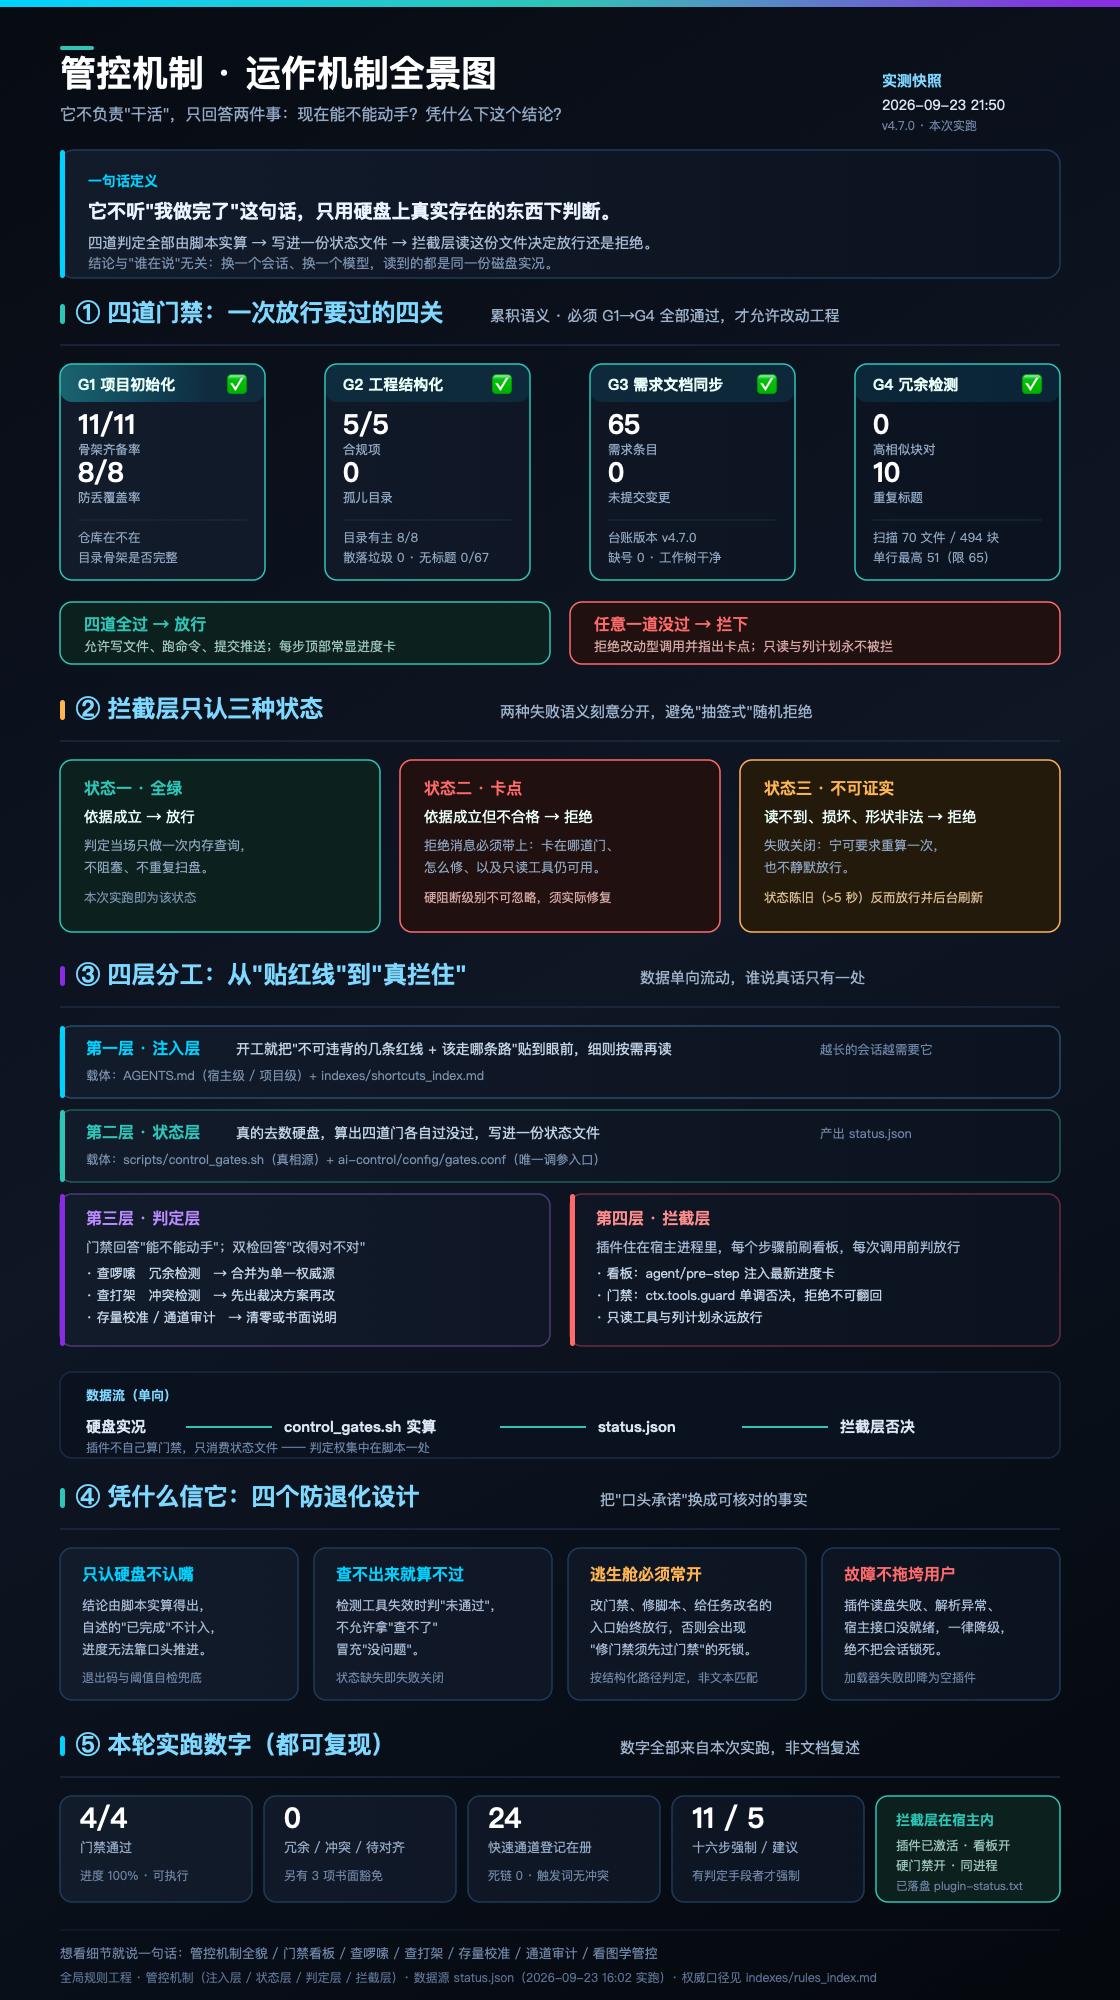
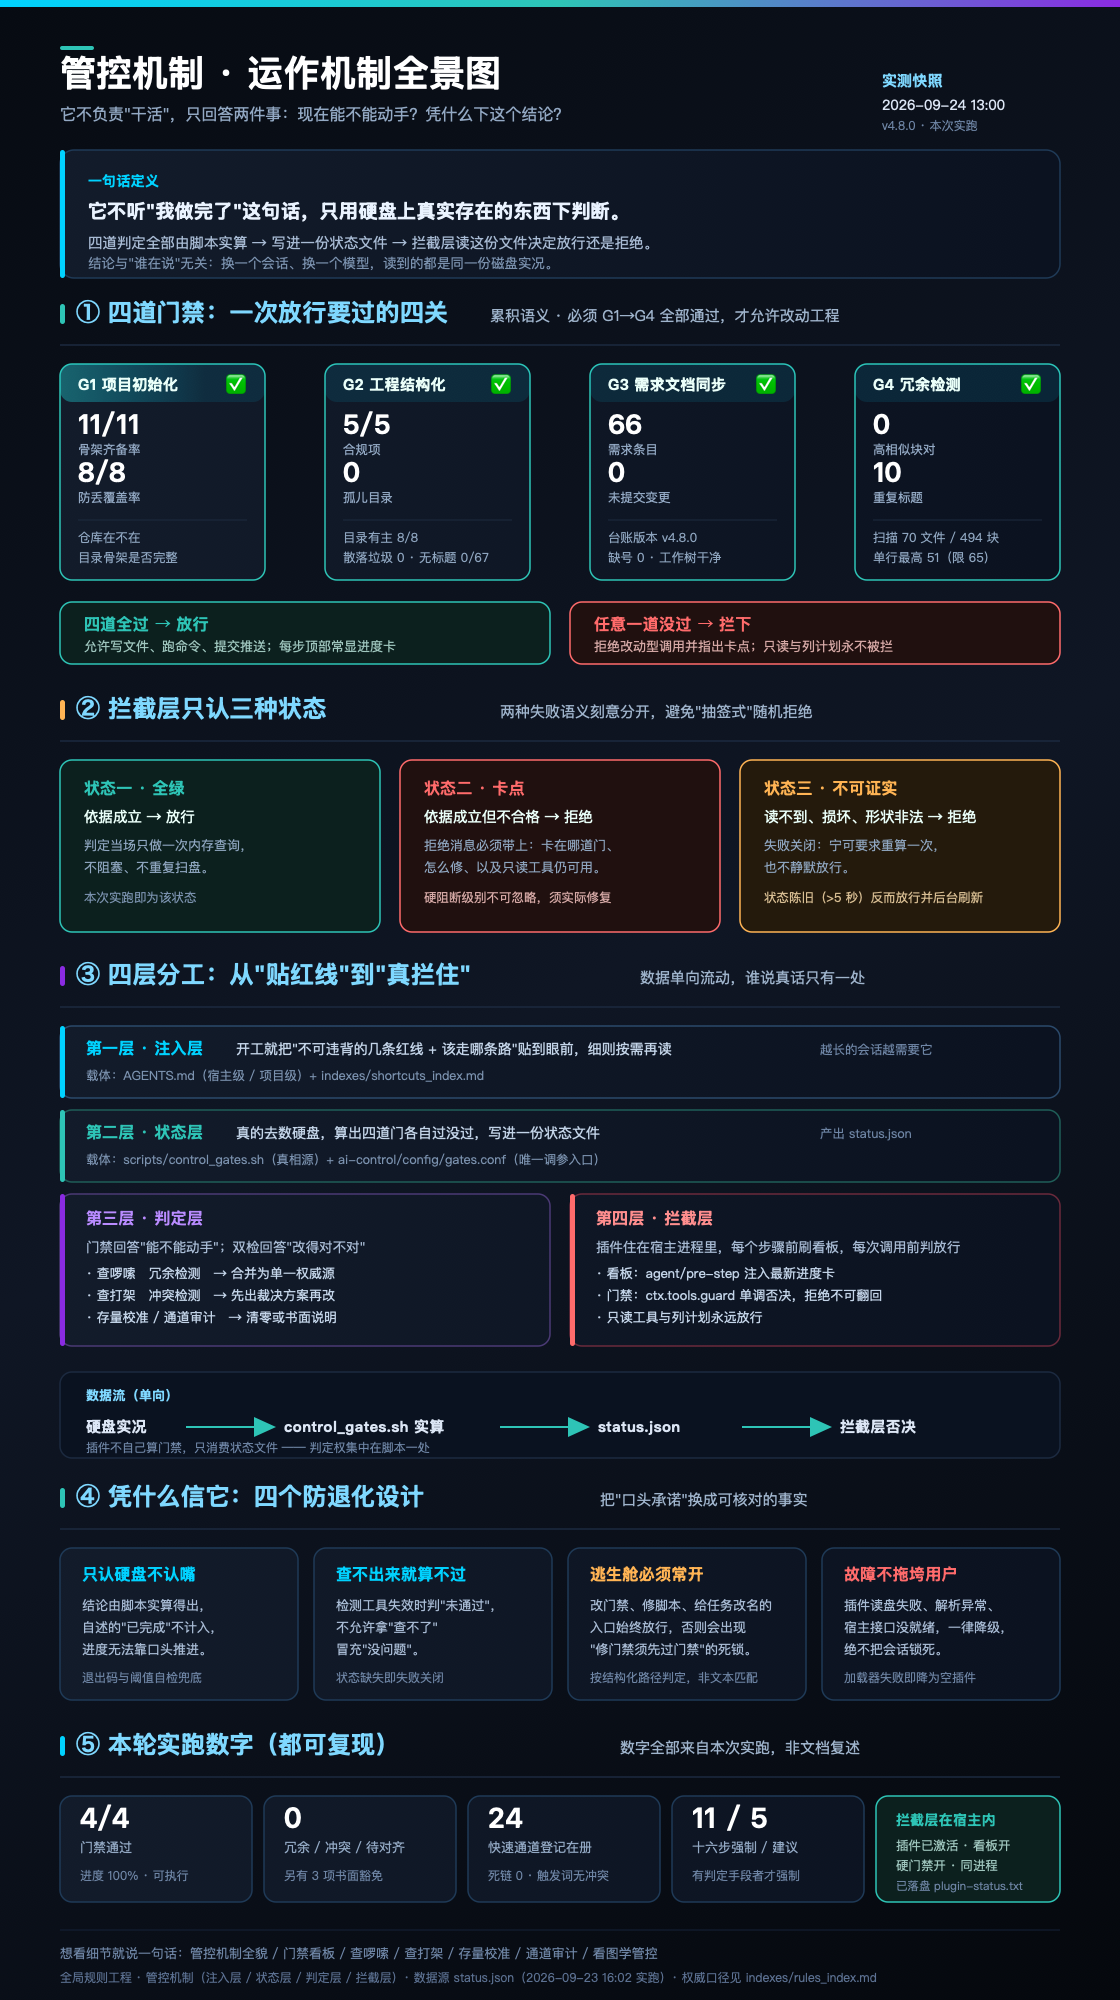
feat(control): add REQ-066/CR-021 fix bash variable parsing in control_gates.sh and bump to v4.8.0

diff --git a/ai-control/requirements/control_requirements_ledger.md b/ai-control/requirements/control_requirements_ledger.md
@@ -1,8 +1,8 @@
 # 管控机制专属需求台账 (Control Requirements Ledger)
 
 > ### 🏷 **版本信息与实施追踪**
-> - **当前管控机制版本**：`v4.7.0`
-> - **最后同步时间**：2026-09-23
+> - **当前管控机制版本**：`v4.8.0`
+> - **最后同步时间**：2026-09-24
 > - **全局主台账对照**：[`docs/requirements.md`](../../docs/requirements.md)
 > - **状态**：`[ACTIVE 生效中]`
 
@@ -32,6 +32,7 @@
 | **CR-018** | REQ-063 | `v4.5.0` | 任务级版本强制递增律与全域交付输出物版本强同步闭环 | `[ACTIVE]` |
 | **CR-019** | REQ-064 | `v4.6.0` | 交互式核心信息卡片增强、多官网精美组件检索图库与新能力标准化接口生命周期 | `[ACTIVE]` |
 | **CR-020** | REQ-065 | `v4.7.0` | 管控机制实况巡检与信息图二期实测重绘 | `[ACTIVE]` |
+| **CR-021** | REQ-066 | `v4.8.0` | 管控机制状态层脚本 Bash 语法缺陷修复与快照写入健全化 | `[ACTIVE]` |
 
 ---
 
@@ -365,6 +366,27 @@
   - [x] 管控机制全要素物理探针巡检完成；
   - [x] 信息图 SVG/PNG 完成实测数据重绘；
   - [x] 全局台账与专项目录版本统一推进至 v4.7.0。
+
+---
+
+### CR-021: 管控机制状态层脚本 Bash 语法缺陷修复与快照写入健全化
+- **当前状态**：`[ACTIVE]` 生效中
+- **实施版本**：`v4.8.0`
+- **对应全局台账**：`REQ-066`
+- **提出时间**：2026-09-24
+- **核心诉求与目标**：
+  1. **状态层脚本（旧称门禁内核）Bash 变量解析缺陷修复**：修复 `scripts/control_gates.sh` 快照输出代码块中 `$TOTAL_GATES` 变量因紧贴中文全角括号导致的 `unbound variable` 致命异常，以及非函数上下文中使用 `local i` 的语法错误；
+  2. **门禁判定状态快照生成与退出码健全化**：消除生成 `ai-control/reports/latest_status.md` 时被 `2>/dev/null` 静默掩盖的崩溃，确保门禁看板计算执行时退出码真实返回 0 并完整产出 30 行结构化快照；
+  3. **任务级版本强制递增与双向台账闭环**：依照第三十条元规则，全库受管文档与主/专属台账实施总版本统一推进至 `v4.8.0`。
+- **关联产出物**：
+  - `scripts/control_gates.sh`
+  - `ai-control/reports/latest_status.md`
+  - `docs/requirements.md`（`REQ-066`）
+- **验收标准**：
+  - [x] `./scripts/control_gates.sh check` 退出码真实返回 0；
+  - [x] `ai-control/reports/latest_status.md` 完整持久化；
+  - [x] 全局台账与专项目录版本统一推进至 v4.8.0。
+
 
 
 

diff --git a/docs/requirements.md b/docs/requirements.md
@@ -1,9 +1,9 @@
 # 全局需求管理台账 (Requirements Ledger)
 
 > ### 🏷 **版本信息与实施追踪**
-> - **当前系统实施总版本**：`v4.7.0`
+> - **当前系统实施总版本**：`v4.8.0`
 > - **版本治理规范**：遵循 [`rules/workflow/versioning_standard.md`](../rules/workflow/versioning_standard.md)
-> - **最后同步时间**：2026-09-23
+> - **最后同步时间**：2026-09-24
 > - **版本状态**：`[Release 稳定生效]`
 
 本文档是本项目唯一的**独立核心需求管理台账**。按照系统元规则，所有规则的提出、变动与注销都必须在此记录，杜绝没有需求依据的规则变更。
@@ -1813,6 +1813,27 @@
   - [x] 管控机制全要素物理探针巡检完成；
   - [x] 信息图 SVG/PNG 完成实测数据重绘；
   - [x] 全局台账与专项目录版本统一推进至 v4.7.0。
+
+---
+
+### REQ-066: 管控机制状态层脚本 Bash 语法缺陷修复与快照写入健全化 (v4.8.0)
+- **当前状态**：`[ACTIVE]` 生效中
+- **实施版本**：`v4.8.0`
+- **提出时间**：2026-09-24
+- **最新更新**：2026-09-24
+- **管控专属台账**：[`ai-control/requirements/control_requirements_ledger.md`](../ai-control/requirements/control_requirements_ledger.md)（`CR-021`）
+- **核心诉求与交付物**：
+  1. **状态层脚本（旧称门禁内核）Bash 变量解析缺陷修复**：修复 `scripts/control_gates.sh` 快照输出代码块中 `$TOTAL_GATES` 变量因紧贴中文全角括号导致的 `unbound variable` 致命异常，以及非函数上下文中使用 `local i` 的语法错误；
+  2. **门禁判定状态快照生成与退出码健全化**：消除生成 `ai-control/reports/latest_status.md` 时被 `2>/dev/null` 静默掩盖的崩溃，确保门禁看板计算执行时退出码真实返回 0 并完整产出 30 行结构化快照；
+  3. **任务级版本强制递增与双向台账闭环**：依照第三十条元规则，全库受管文档与主/专属台账实施总版本统一推进至 `v4.8.0`。
+- **关联文件**：
+  - `scripts/control_gates.sh`
+  - `ai-control/reports/latest_status.md`
+  - `ai-control/requirements/control_requirements_ledger.md`
+- **验收标准**：
+  - [x] `./scripts/control_gates.sh check` 退出码真实返回 0；
+  - [x] `ai-control/reports/latest_status.md` 完整持久化；
+  - [x] 全局台账与专项目录版本统一推进至 v4.8.0。
 
 ---
 

diff --git a/docs/constraint_mechanism_spec.md b/docs/constraint_mechanism_spec.md
@@ -1,7 +1,7 @@
 # 管控机制 · 精简与迭代需求文案（可执行版）
 
 > ### 🏷 **版本信息与实施追踪**
-> - **当前文档版本**：`v4.7.0`（对齐台账总版本；**正文内容**仍为其原始版本，未随对齐改动）
+> - **当前文档版本**：`v4.8.0`（对齐台账总版本；**正文内容**仍为其原始版本，未随对齐改动）
 > - **版本治理规范**：遵循 [`rules/workflow/versioning_standard.md`](../rules/workflow/versioning_standard.md)
 > - **对齐时间**：2026-09-23（REQ-047：补齐受管文档头部版本声明，消除假漂移）
 > **任务代号**：`GCM-REFORM`（GCM = Global Constraint Mechanism，全局约束机制）

diff --git a/docs/constraint_mechanism_enhance_2.md b/docs/constraint_mechanism_enhance_2.md
@@ -1,7 +1,7 @@
 # 管控机制 · 流程固化与快速通道需求文案（可执行版）
 
 > ### 🏷 **版本信息与实施追踪**
-> - **当前文档版本**：`v4.7.0`（对齐台账总版本；**正文内容**仍为其原始版本，未随对齐改动）
+> - **当前文档版本**：`v4.8.0`（对齐台账总版本；**正文内容**仍为其原始版本，未随对齐改动）
 > - **版本治理规范**：遵循 [`rules/workflow/versioning_standard.md`](../rules/workflow/versioning_standard.md)
 > - **对齐时间**：2026-09-23（REQ-047：补齐受管文档头部版本声明，消除假漂移）
 > **任务代号**：`GCM-ENHANCE-2`（管控机制第二轮增强）

diff --git a/docs/visual_learning_research.md b/docs/visual_learning_research.md
@@ -2,7 +2,7 @@
 
 > ### 🏷 **版本信息与实施追踪**
 > - **文档类型**：外部调研报告（非规则法典，不产生强制约束）
-> - **当前文档版本**：`v4.7.0`（对齐台账总版本；**内容**仍为首版，未随对齐改动）
+> - **当前文档版本**：`v4.8.0`（对齐台账总版本；**内容**仍为首版，未随对齐改动）
 > - **调研日期**：2026-01-05 至 2026-01-06（本地时间）
 > - **调研方法**：真实联网检索 + 官方页面正文抓取 + 本地渲染实测
 > - **适用范围**：规则库内"图形化教学/门禁可视化/上手路径"设计参考

diff --git a/templates/project_dsh_bootstrap_template.md b/templates/project_dsh_bootstrap_template.md
@@ -1,8 +1,8 @@
 # 项目 DSH 赋能规划卡标准模板 (Project DSH Bootstrap Template)
 
 > ### 🏷 **版本信息与实施追踪**
-> - **当前模板版本**：`v4.7.0`
-> - **实施版本**：`v4.7.0`
+> - **当前模板版本**：`v4.8.0`
+> - **实施版本**：`v4.8.0`
 > - **遵循规范**：[`rules/system/meta_rules.md`](../rules/system/meta_rules.md) 第十八条
 
 在任何新项目（业务工具、Web 前端、后端服务、游戏工程、自动化脚本集）立项或规划阶段，智能体与开发人员**必须输出此卡片**，强制评估并至少集成 1 项 DSH 宿主基座能力。

diff --git a/rules/workflow/pp_life_orchestration.md b/rules/workflow/pp_life_orchestration.md
@@ -1,8 +1,8 @@
 # 单例并发中枢 Agent PP 与短生命周期 Agent Life(N) 协同调度规约 (PP-Life Orchestration Specification)
 
 > ### 🏷 **版本信息与实施追踪**
-> - **当前文档版本**：`v4.7.0`
-> - **对应实施版本**：`v4.7.0`
+> - **当前文档版本**：`v4.8.0`
+> - **对应实施版本**：`v4.8.0`
 > - **版本治理规范**：遵循 [`rules/workflow/versioning_standard.md`](versioning_standard.md)
 > - **需求依据**：`REQ-056` / `CR-011`（单例并发中枢 Agent PP 与多 Life 短生命周期消亡架构）
 > - **生效状态**：`[Release 稳定生效]`

diff --git a/rules/coding/token_and_local_compute_optimization.md b/rules/coding/token_and_local_compute_optimization.md
@@ -1,8 +1,8 @@
 # 本地运算优先与 Token 结构性降耗工程规范 (Local-Compute First & Token Optimization)
 
 > ### 🏷 **版本信息与实施追踪**
-> - **当前文档版本**：`v4.7.0`
-> - **对应实施版本**：`v4.7.0`
+> - **当前文档版本**：`v4.8.0`
+> - **对应实施版本**：`v4.8.0`
 > - **版本治理规范**：遵循 [`rules/workflow/versioning_standard.md`](../workflow/versioning_standard.md)
 > - **需求依据**：`REQ-052` / `CR-007`（结构性降低 Token 消耗与本地运算优先）
 > - **生效状态**：`[Release 稳定生效]`

diff --git a/indexes/capabilities_index.md b/indexes/capabilities_index.md
@@ -1,8 +1,8 @@
 # 全能力层全景索引与双层接口法典 (Comprehensive Capabilities Index & Interface Matrix)
 
 > ### 🏷 **版本信息与实施追踪**
-> - **当前文档版本**：`v4.7.0`
-> - **对应实施版本**：`v4.7.0`
+> - **当前文档版本**：`v4.8.0`
+> - **对应实施版本**：`v4.8.0`
 > - **版本治理规范**：遵循 [`rules/workflow/versioning_standard.md`](../rules/workflow/versioning_standard.md)
 > - **需求依据**：`REQ-051` / `CR-006`（能力层索引与正负案例规格）
 > - **生效状态**：`[Release 稳定生效]`

diff --git a/rules/coding/first_principles_verification.md b/rules/coding/first_principles_verification.md
@@ -1,8 +1,8 @@
 # 第一性原理与物理实证规范 (First-Principles & Empirical Verification Standard)
 
 > ### 🏷 **版本信息与实施追踪**
-> - **当前文档版本**：`v4.7.0`
-> - **对应实施版本**：`v4.7.0`
+> - **当前文档版本**：`v4.8.0`
+> - **对应实施版本**：`v4.8.0`
 > - **版本治理规范**：遵循 [`rules/workflow/versioning_standard.md`](../workflow/versioning_standard.md)
 > - **需求依据**：`REQ-057` / `CR-012`（第一性原理与事实/已证实推论实证铁律）
 > - **生效状态**：`[Release 稳定生效]`

diff --git a/rules/workflow/agent_life_spec.md b/rules/workflow/agent_life_spec.md
@@ -1,8 +1,8 @@
 # 全局流程管控 Agent Life 规范 (Agent Life Orchestration Specification)
 
 > ### 🏷 **版本信息与实施追踪**
-> - **当前文档版本**：`v4.7.0`
-> - **对应实施版本**：`v4.7.0`
+> - **当前文档版本**：`v4.8.0`
+> - **对应实施版本**：`v4.8.0`
 > - **版本治理规范**：遵循 [`rules/workflow/versioning_standard.md`](versioning_standard.md)
 > - **需求依据**：`REQ-055` / `CR-010`（全局流程调度 Agent Life 与阶段原子反馈）
 > - **生效状态**：`[Release 稳定生效]`

diff --git a/indexes/navigation_router.md b/indexes/navigation_router.md
@@ -1,8 +1,8 @@
 # 地图导航式能力路由层规范 (Map Navigation Routing Layer)
 
 > ### 🏷 **版本信息与实施追踪**
-> - **当前文档版本**：`v4.7.0`
-> - **对应实施版本**：`v4.7.0`
+> - **当前文档版本**：`v4.8.0`
+> - **对应实施版本**：`v4.8.0`
 > - **版本治理规范**：遵循 [`rules/workflow/versioning_standard.md`](../rules/workflow/versioning_standard.md)
 > - **需求依据**：`REQ-054` / `CR-009`（地图导航式能力路由层）
 > - **生效状态**：`[Release 稳定生效]`
